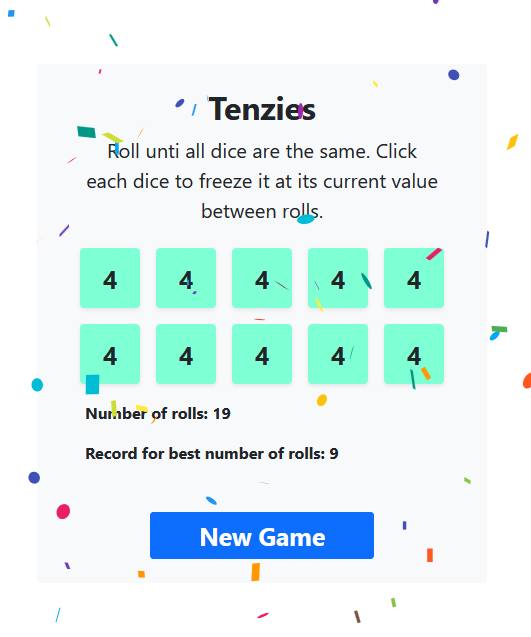
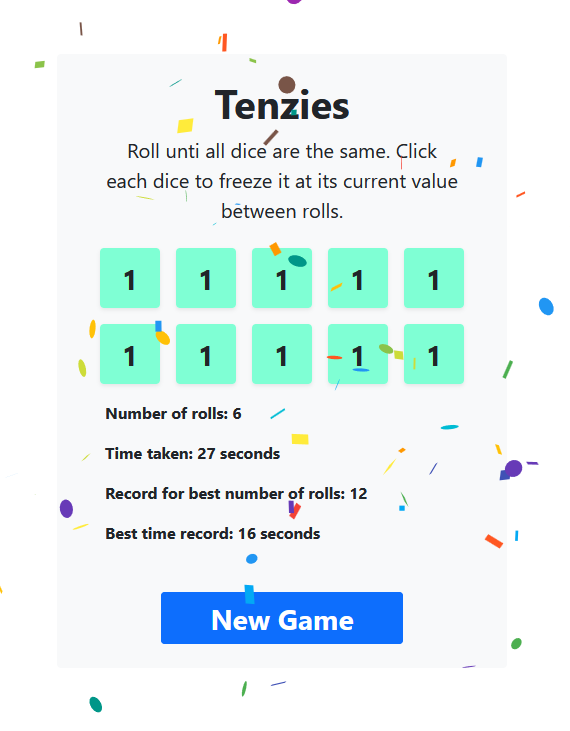
Readme.md update

diff --git a/README.md b/README.md
@@ -4,6 +4,6 @@ Player needs to get all dices to be same number. Clicking Roll button rerolls al
 
 ![Alt text](/public/tenzies2.png?raw=true "Todo App Screenshot")
 
-When player gets all dices to be the same number, confetti shows up on the screen and information about how much rerolls player used and what is players best reroll record so far. Records are saved to localStorage
+When player gets all dices to be the same number, confetti shows up on the screen and information about how much rerolls player used and how much time it took to finish the game.Best records are saved to localStorage and are shown at the end as well
 
 ![Alt text](/public/tenzies1.png?raw=true "Todo App Screenshot")
